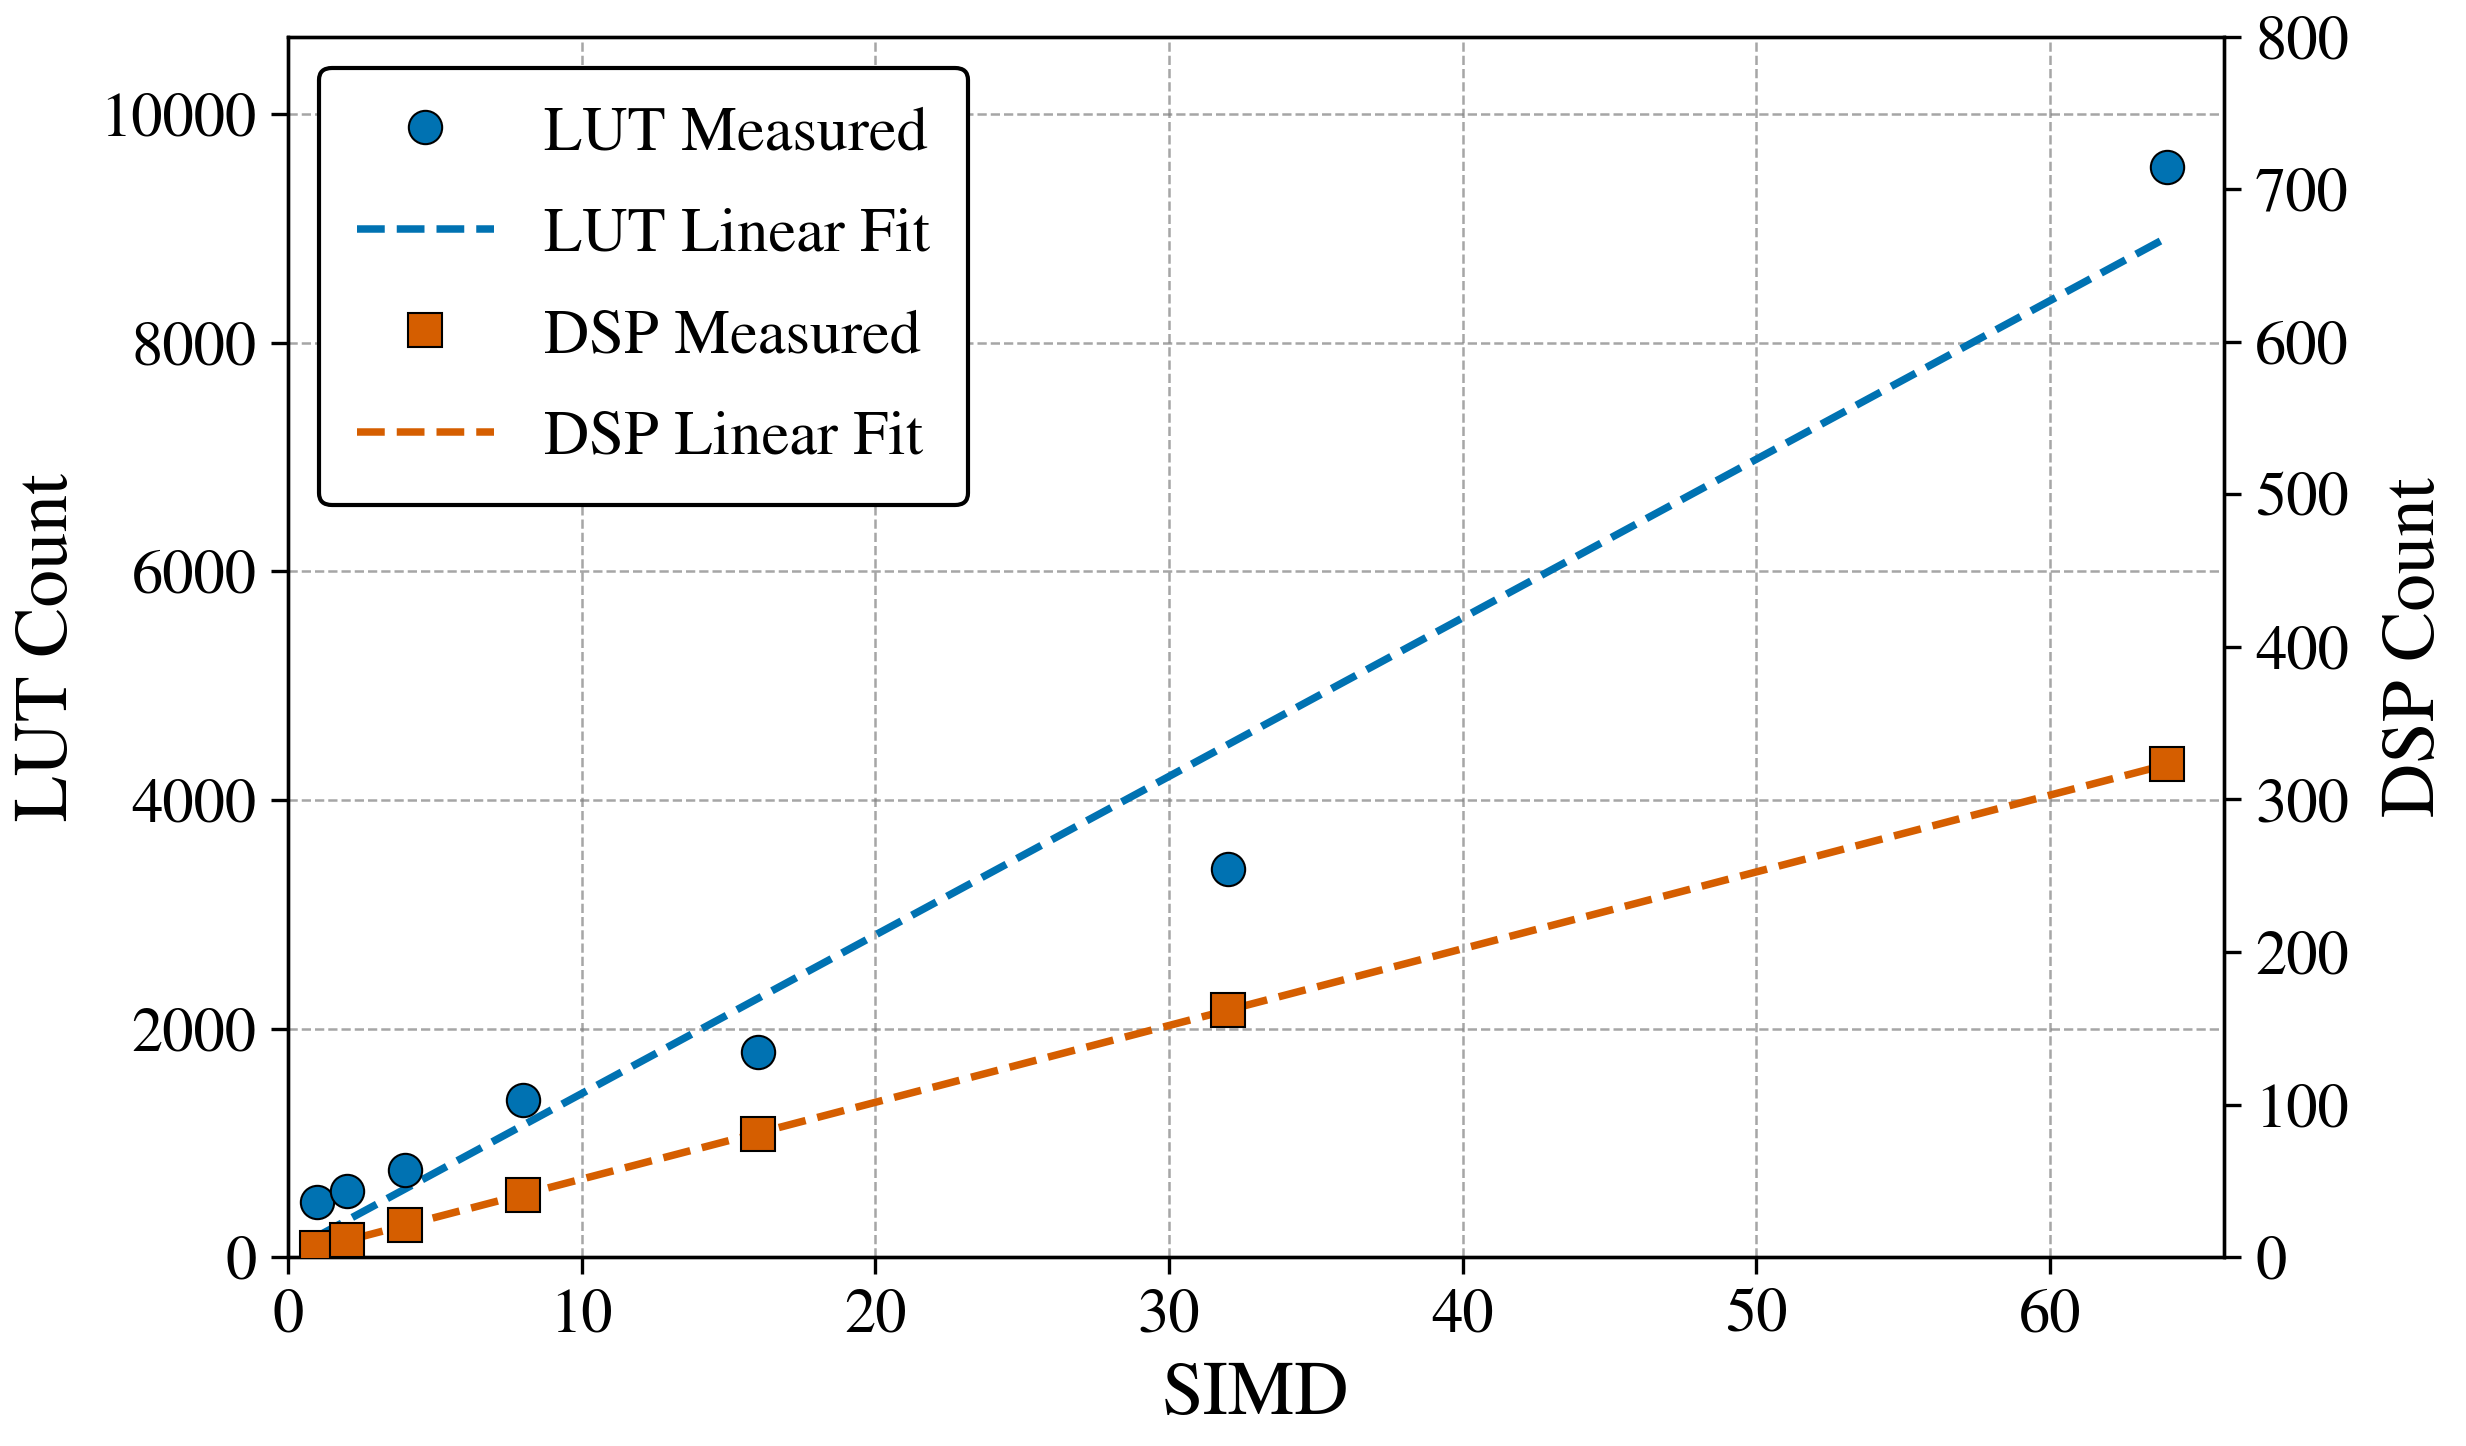
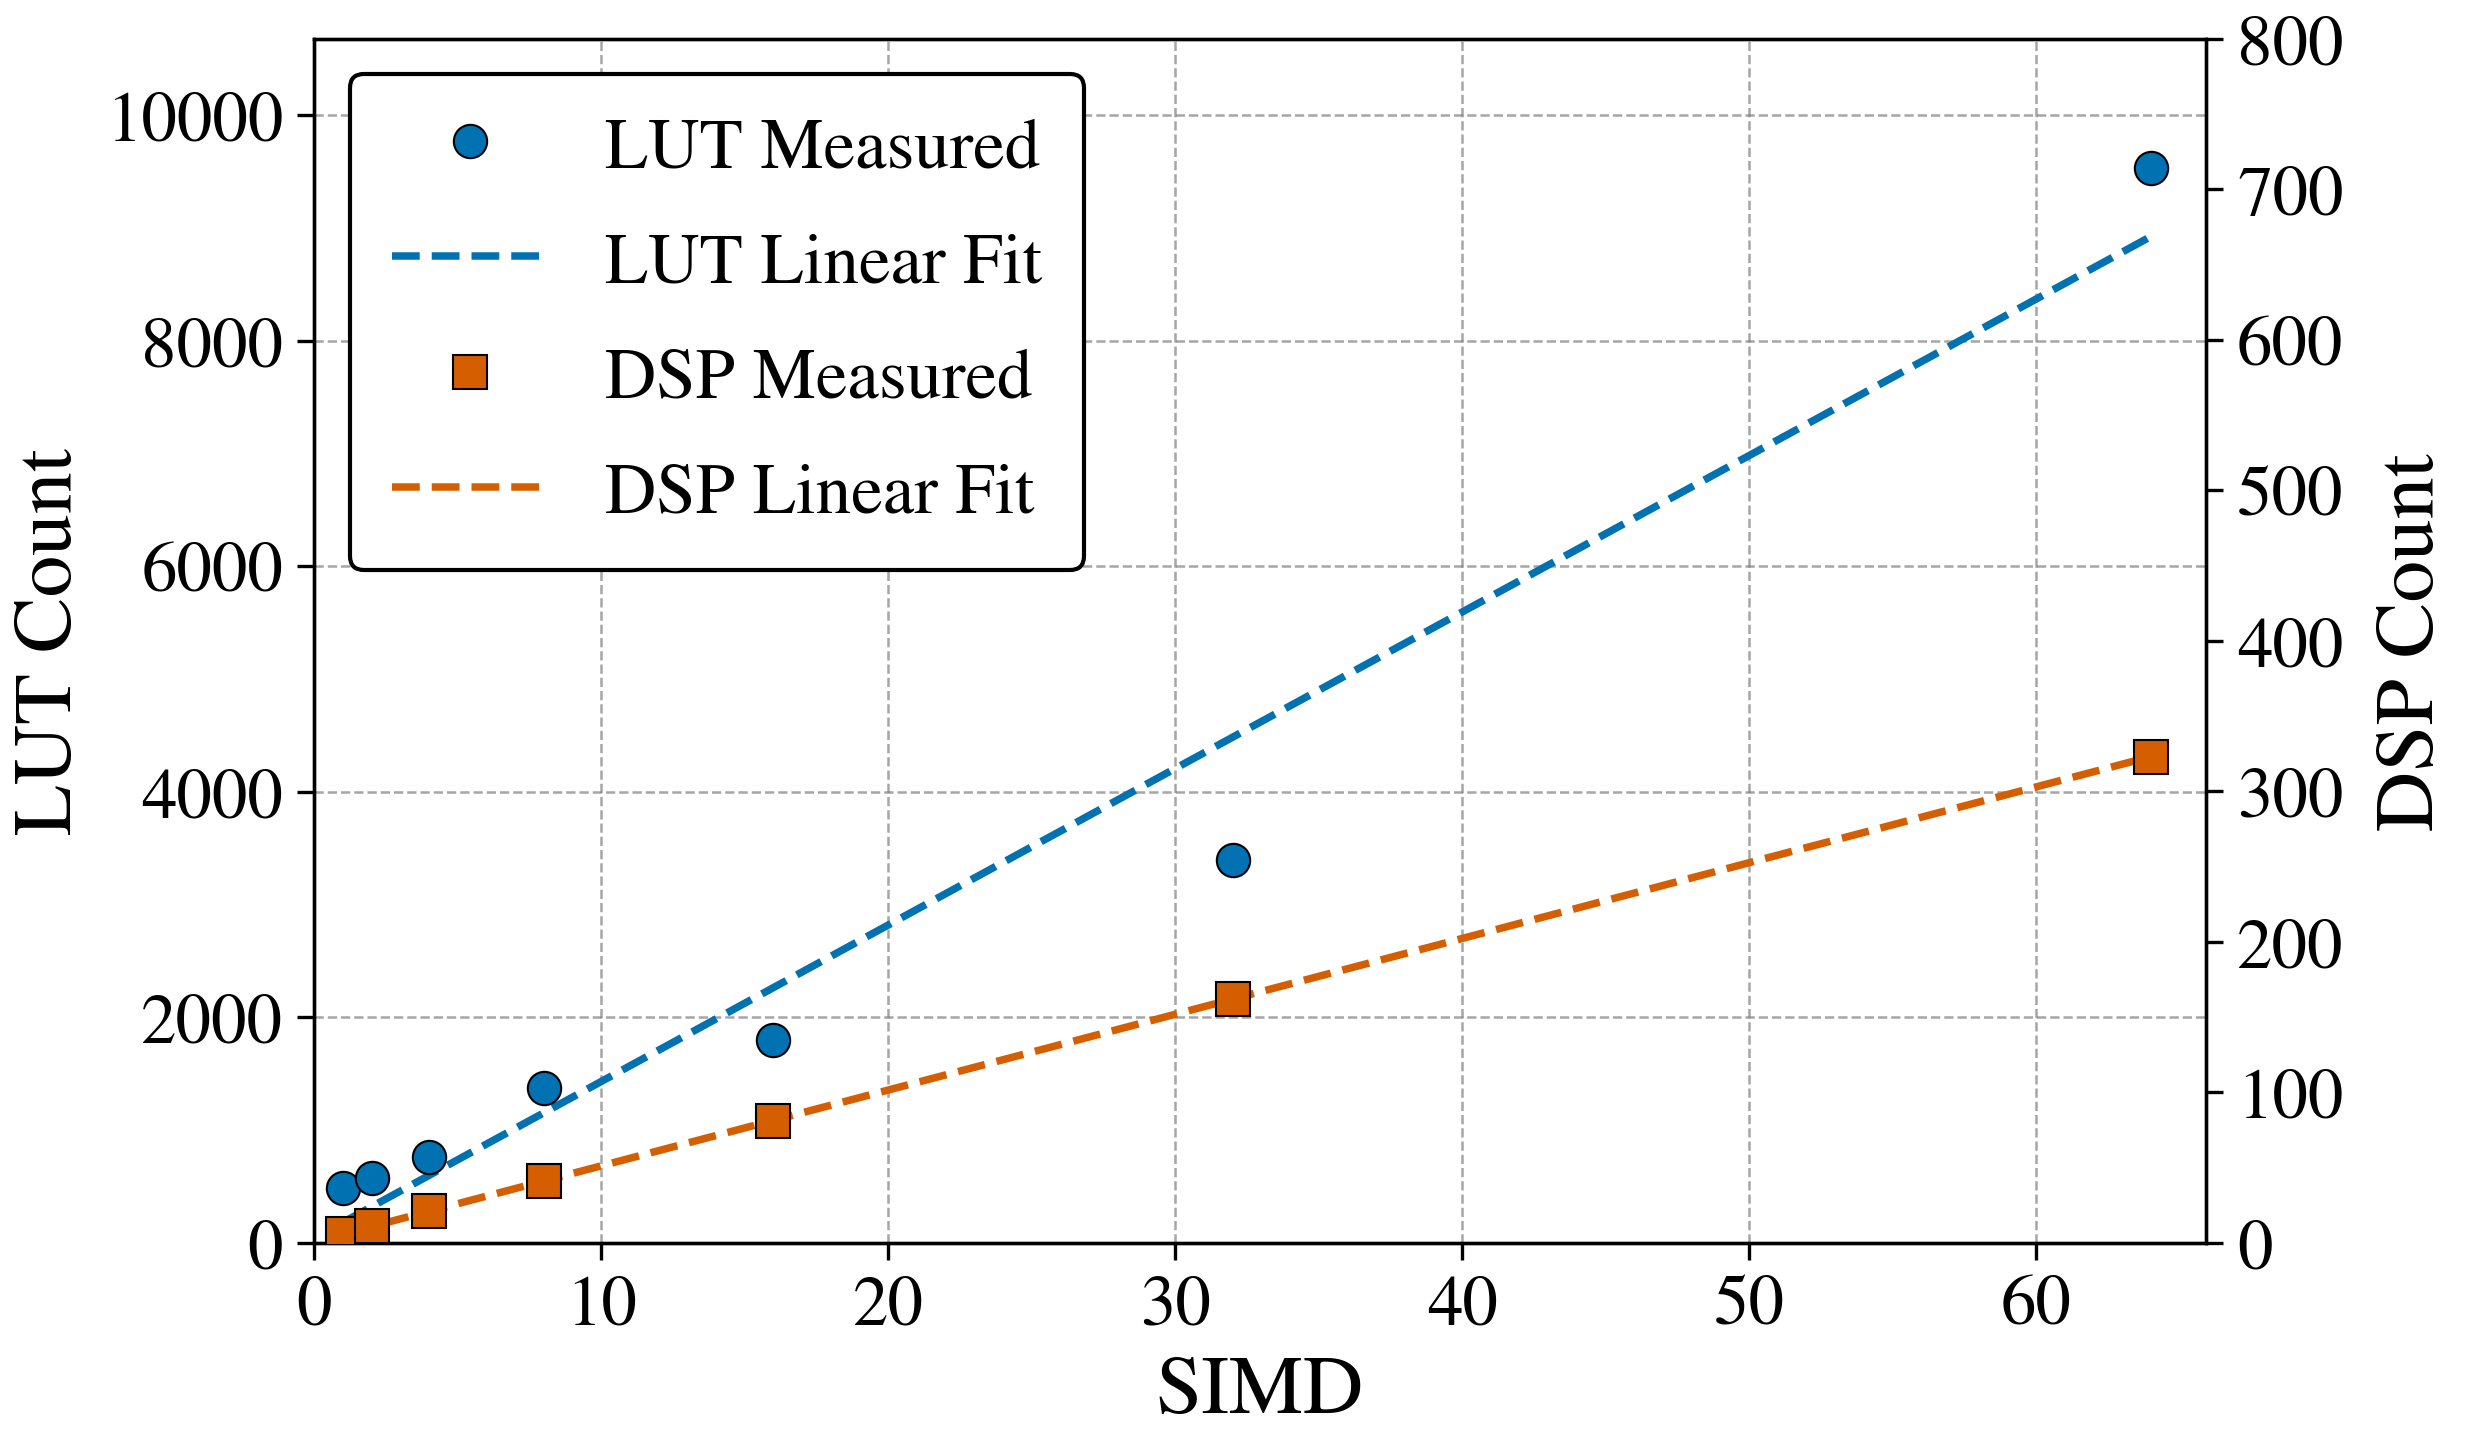
m

diff --git a/evaluation/layernorm/SIMD_sweep/scripts/plot_resources.py b/evaluation/layernorm/SIMD_sweep/scripts/plot_resources.py
@@ -233,10 +233,10 @@ def configure_style() -> None:
             "axes.unicode_minus": True,
             "font.size": 16,
             "axes.titlesize": 18,
-            "axes.labelsize": 18,
-            "xtick.labelsize": 15,
-            "ytick.labelsize": 15,
-            "legend.fontsize": 15,
+            "axes.labelsize": 20,
+            "xtick.labelsize": 17,
+            "ytick.labelsize": 17,
+            "legend.fontsize": 17,
             "axes.linewidth": 0.8,
             "axes.edgecolor": "black",
             "xtick.direction": "out",
